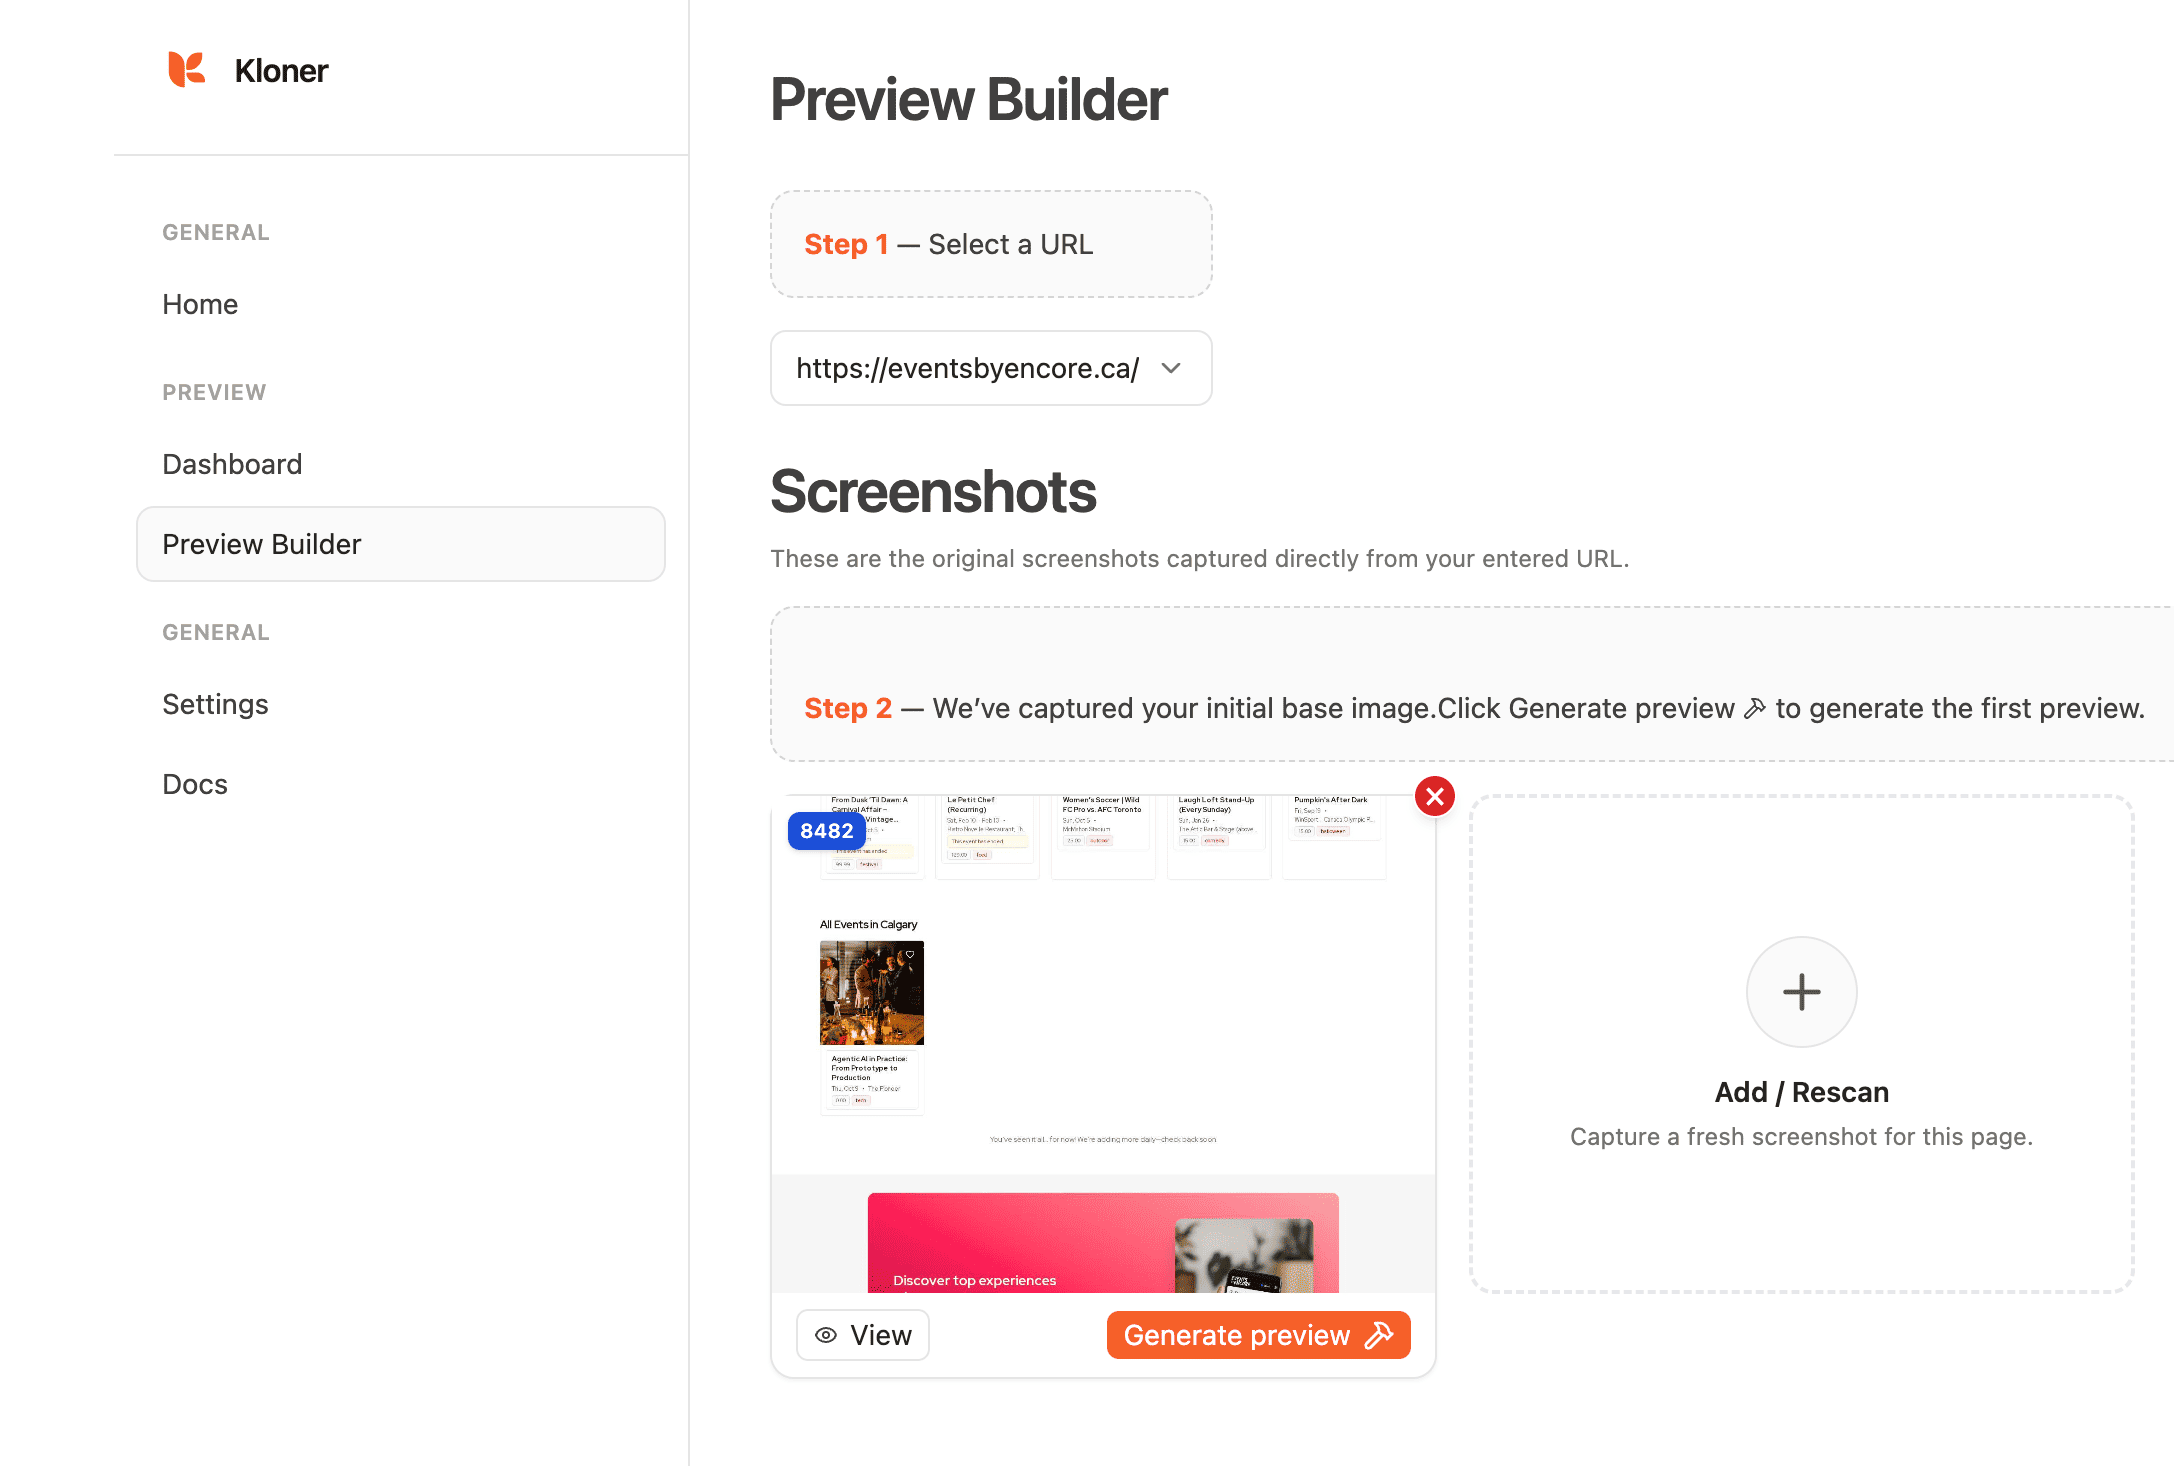
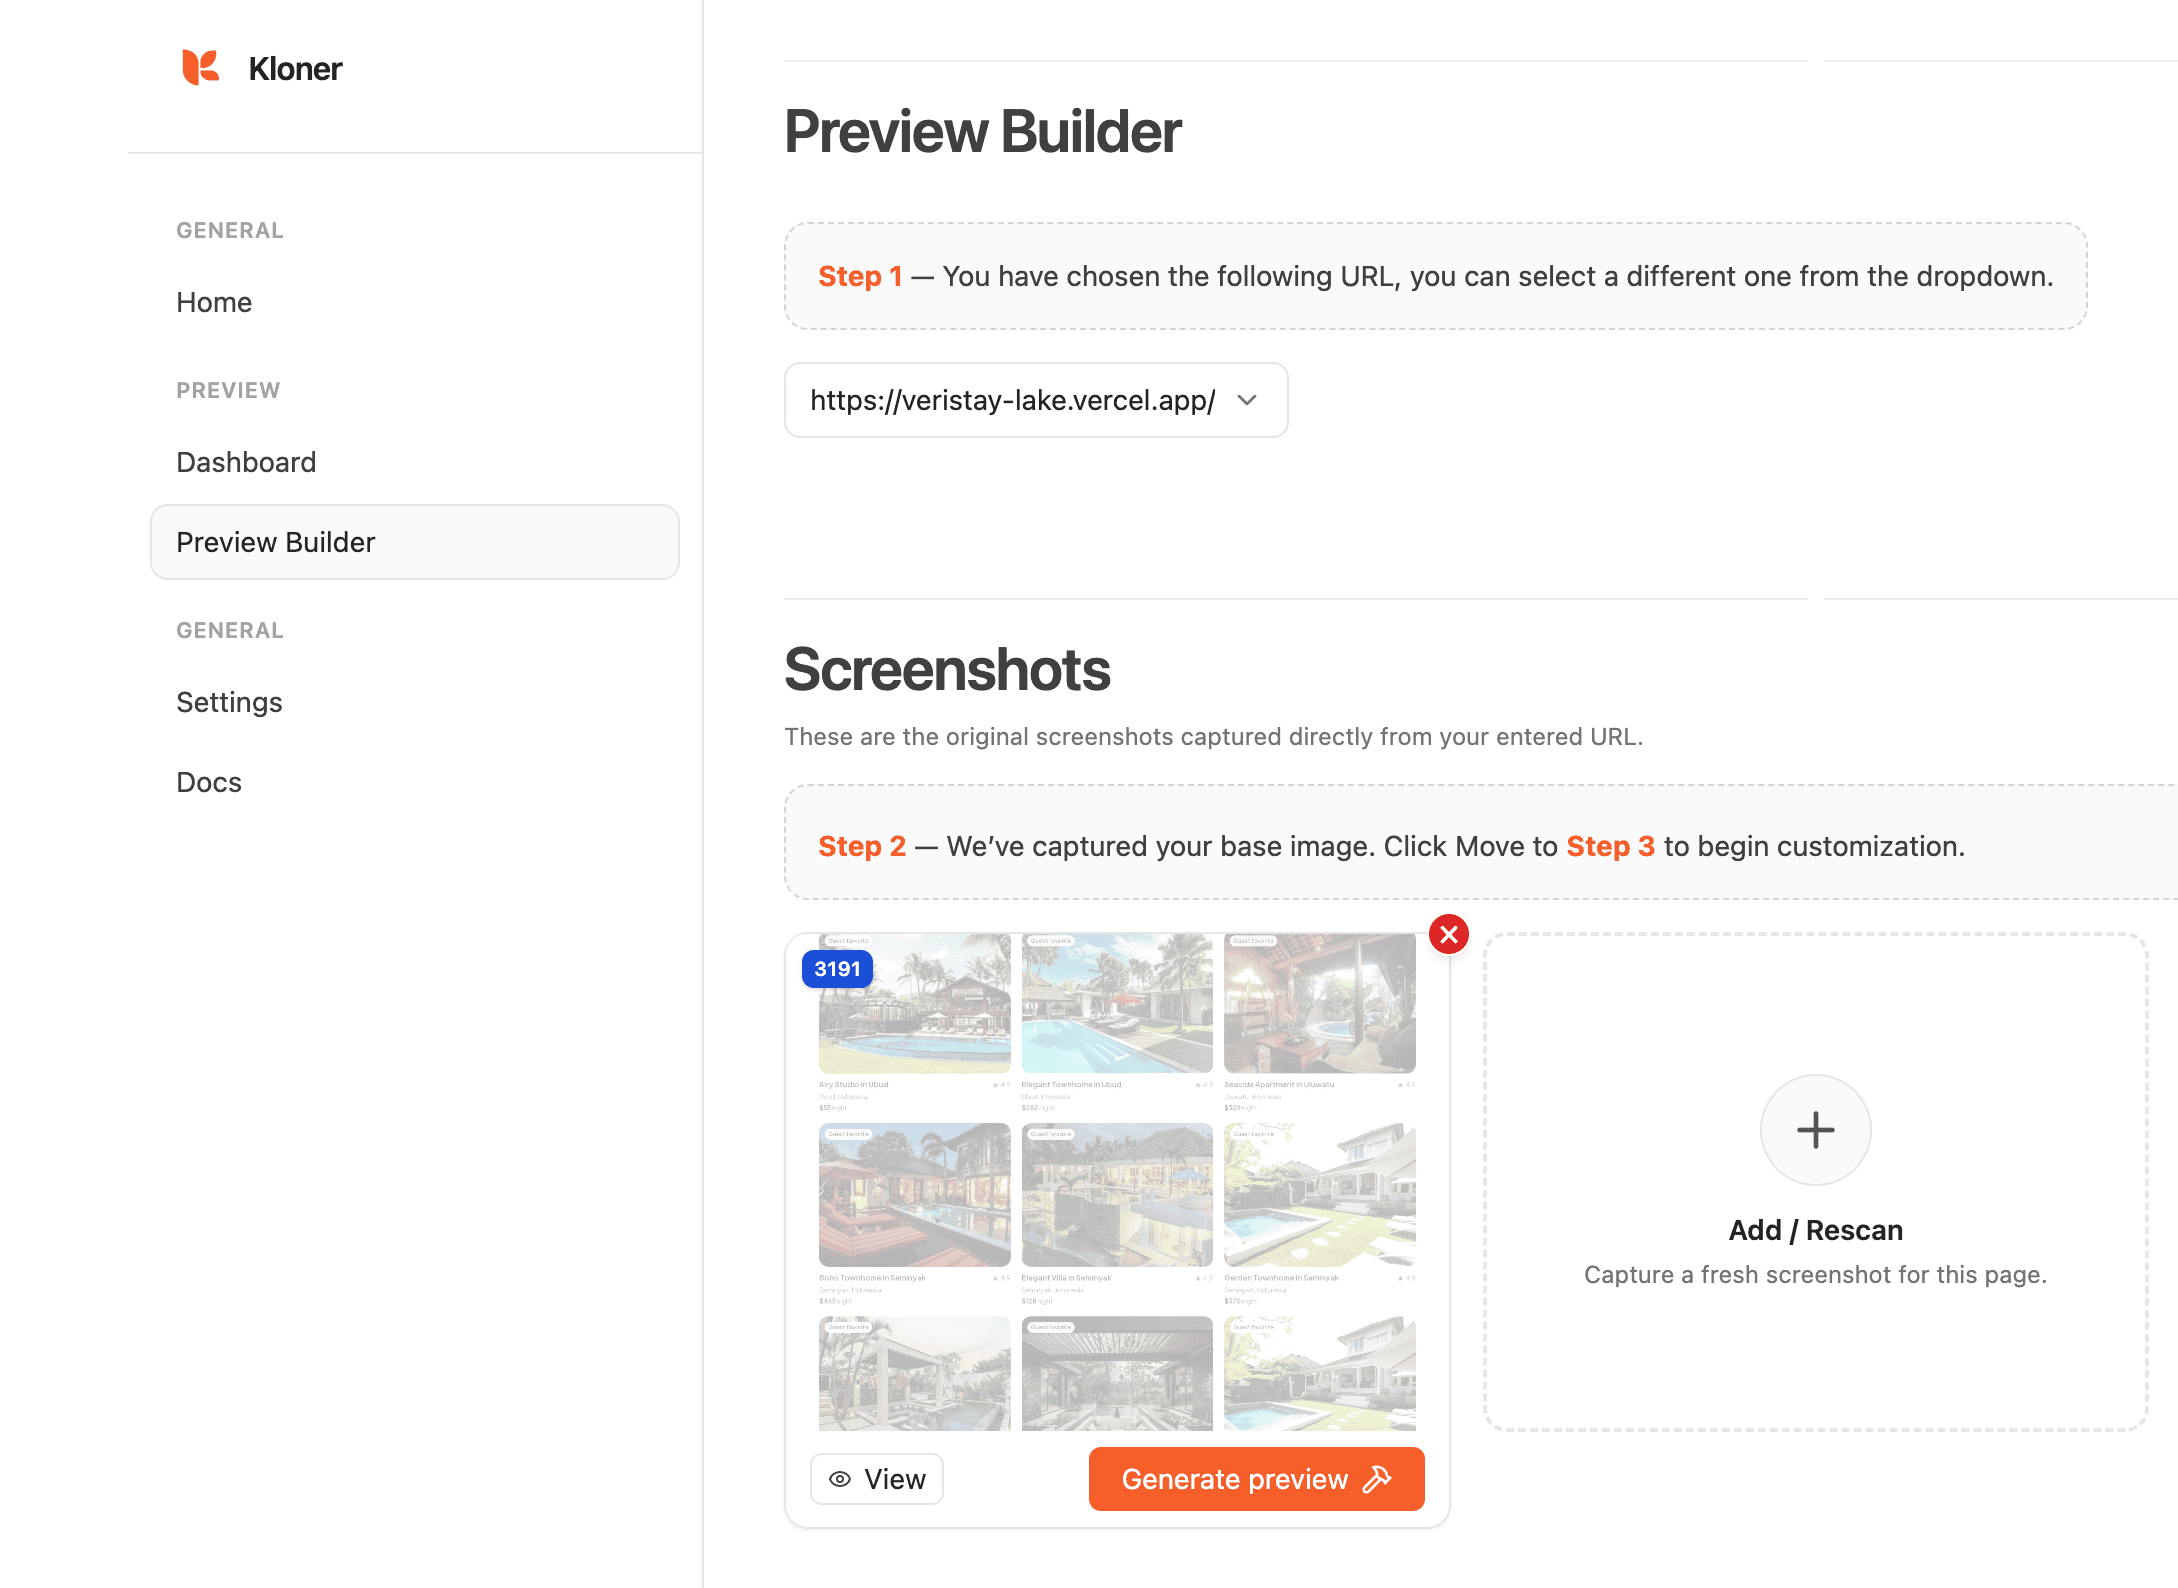
organize preview builder, update new images

diff --git a/app/dashboard/view/page.tsx b/app/dashboard/view/page.tsx
@@ -1001,7 +1001,7 @@ export default function PreviewPage(): JSX.Element {
                             {isDeleting && <CenterSpinner label="Deleting…" />}
 
                             <a href={s.url} target="_blank" rel="noreferrer" className="block" title="Open full-size screenshot">
-                                <div className="w-full aspect-[4/3] bg-neutral-50 flex items-center justify-center rounded-t-xl relative">
+                                <div className="w-full aspect-[4/3] bg-neutral-50 opacity-30 flex items-center justify-center rounded-t-xl relative">
                                     <img
                                         src={s.url}
                                         alt={s.fileName}
@@ -1032,7 +1032,7 @@ export default function PreviewPage(): JSX.Element {
                                             onClick={() => buildFromKey(s.path)}
                                             disabled={locked || isDeleting}
                                             aria-busy={locked}
-                                            className="shrink-0 rounded-md px-2 py-1 text-[14px] text-white disabled:opacity-50 disabled:cursor-not-allowed inline-flex items-center gap-1.5"
+                                            className="shrink-0 rounded-md px-4 py-2 text-[14px] text-white disabled:opacity-50 disabled:cursor-not-allowed inline-flex items-center gap-1.5"
                                             style={{ backgroundColor: ACCENT }}
                                             title="Create editable preview from this screenshot"
                                         >
@@ -1058,6 +1058,11 @@ export default function PreviewPage(): JSX.Element {
     return (
         <main className="min-h-screen bg-white">
             <div className="mx-auto max-w-[1200px] px-4 sm:px-6 lg:px-10 py-8">
+                {/* subtle divider */}
+                <div className="mb-4 flex items-center gap-2">
+                    <div className="h-px flex-1 bg-neutral-200/70" />
+                    <div className="h-px flex-1 bg-neutral-200/70" />
+                </div>
                 <div className="mb-5">
                     <div className="flex items-center justify-between gap-3 flex-wrap">
                         <div>
@@ -1088,7 +1093,7 @@ export default function PreviewPage(): JSX.Element {
                         ) : (
                             <div className="relative inline-block" ref={urlMenuRef}>
                                 <div className="rounded-xl border border-dashed border-neutral-300 bg-neutral-50 p-4 text-sm text-neutral-700 my-4">
-                                    <strong className="text-accent">Step 1</strong> — Select a URL
+                                    <strong className="text-accent">Step 1</strong> — You have chosen the following URL, you can select a different one from the dropdown.
                                 </div>
                                 <button
                                     type="button"
@@ -1144,7 +1149,12 @@ export default function PreviewPage(): JSX.Element {
                 {err ? <div className="mt-2 rounded-lg border border-red-300 bg-red-50 px-3 py-2 text-sm text-red-700">{err}</div> : null}
                 {info ? <div className="mt-2 rounded-lg border border-neutral-300 bg-neutral-50 px-3 py-2 text-sm text-neutral-800">{info}</div> : null}
 
-                <div className="mt-6">
+                <div className="mt-20">
+                    {/* subtle divider */}
+                    <div className="mb-4 flex items-center gap-2">
+                        <div className="h-px flex-1 bg-neutral-200/70" />
+                        <div className="h-px flex-1 bg-neutral-200/70" />
+                    </div>
                     <h2 className="text-1xl sm:text-3xl font-semibold tracking-tight text-neutral-700">
                         Screenshots
                     </h2>
@@ -1184,13 +1194,18 @@ export default function PreviewPage(): JSX.Element {
                         <>
 
                             <div className="rounded-xl border border-dashed border-neutral-300 bg-neutral-50 p-4 text-sm text-neutral-700 my-4">
-                                <strong className="text-accent">Step 2</strong> — We’ve captured your initial base image. 
+                                <strong className="text-accent">Step 2</strong> — We’ve captured your base image. Click
 
-                                {renders.length === 0 && (
-                                    <div className="inline-flex mt-1 text-sm pt-5 flex items-center text-neutral-700">
-                                        Click Generate preview <Hammer className={`mx-1 h-3 w-3`} /> to generate the first preview.
+                                {renders.length === 0 ? (
+                                    <div className="x-1 inline-flex mt-1 text-sm flex items-center text-neutral-700">
+                                        <a className="mx-2 bg-accent rounded-md px-4 py-1.5 text-[14px] flex flex-inline items-center text-white">Generate preview <Hammer className={`mx-1 h-4 w-4`} /></a> to create your first website preview.
                                     </div>
-                                )}
+                                ) :
+
+                                    <div className="mx-1 inline-flex mt-1 text-sm flex items-center text-neutral-700">
+                                        Move to <strong className="text-accent mx-1">Step 3</strong> to begin customization.
+                                    </div>
+                                }
                             </div>
 
                             <div className="grid grid-cols-1 sm:grid-cols-2 lg:grid-cols-3 gap-4">
@@ -1209,7 +1224,12 @@ export default function PreviewPage(): JSX.Element {
                     )}
                 </div>
 
-                <div className="mt-10">
+                <div className="mt-20">
+                    {/* subtle divider */}
+                    <div className="mb-4 flex items-center gap-2">
+                        <div className="h-px flex-1 bg-neutral-200/70" />
+                        <div className="h-px flex-1 bg-neutral-200/70" />
+                    </div>
                     <div className="flex items-center justify-between">
                         <div>
                             <h2 className="text-1xl sm:text-3xl font-semibold tracking-tight text-neutral-700">Website Previews</h2>
@@ -1223,7 +1243,7 @@ export default function PreviewPage(): JSX.Element {
                     {renders.length === 0 ? (
                         <>
                             <div className="rounded-xl border border-dashed border-neutral-300 bg-neutral-50 p-4 text-sm text-neutral-700 my-4">
-                                <strong className="text-accent">Step 3</strong> — Website Previews. Customize to edit the HTML. Deploy publishes to Vercel.
+                                <strong className="text-accent">Step 3 </strong> — Website Previews. Customize to edit the HTML. Deploy publishes to Vercel.
                             </div>
                             <div className="mt-3 rounded-lg border border-neutral-200 bg-neutral-50 p-4 text-sm text-neutral-700 my-4">
                                 No previews yet. Generate one from a base screenshot above.
@@ -1231,8 +1251,8 @@ export default function PreviewPage(): JSX.Element {
                         </>
                     ) : (
                         <>
-                            <div className="rounded-xl border border-dashed border-neutral-300 bg-neutral-50 p-4 text-sm text-neutral-700 my-4">
-                                <strong className="text-accent">Step 3</strong> — Customize edits, then Deploy to publish. Discard removes this preview only.
+                            <div className="rounded-xl border flex items-center flex-inline border-dashed border-neutral-300 bg-neutral-50 p-4 text-sm text-neutral-700 my-4">
+                                <strong className="text-accent mr-1">Step 3</strong> — Customize your website preview, then click <div className="mx-2 rounded-md border border-neutral-300 bg-white px-3 py-1.5 text-xs flex items-center flex-inline font-semibold text-neutral-800">Deploy<Rocket className="mx-1 h-3 w-3" /></div> to begin publishing.
                             </div>
                             <p className="mt-2 text-xs text-neutral-500">
                                 Tip: Reference the original with the version badge
@@ -1251,16 +1271,29 @@ export default function PreviewPage(): JSX.Element {
                     )}
                 </div>
 
-                <div className="mt-10">
+                <div className="mt-20">
+                    {/* subtle divider */}
+                    <div className="mb-4 flex items-center gap-2">
+                        <div className="h-px flex-1 bg-neutral-200/70" />
+                        <div className="h-px flex-1 bg-neutral-200/70" />
+                    </div>
+
                     <div className="flex items-center justify-between">
                         <div>
-                            <h2 className="text-1xl sm:text-3xl font-semibold tracking-tight text-neutral-700">Deployments</h2>
+                            <h2 className="text-1xl sm:text-3xl font-semibold tracking-tight text-neutral-700">
+                                Deployments
+                            </h2>
+                            <p className="mt-2 text-xs text-neutral-500">
+                                These are the live websites you currently have published.
+                            </p>
                         </div>
                     </div>
+
                     <div className="rounded-xl border border-dashed border-neutral-300 bg-neutral-50 p-4 text-sm text-neutral-700 my-4">
-                        <strong className="text-accent">Step 4</strong> — Track your deployments, customize and redeploy.
+                        <strong className="text-accent">Step 4</strong> — Track or modify your deployments here.
                     </div>
                 </div>
+
             </div>
 
             {editorOpen && (
